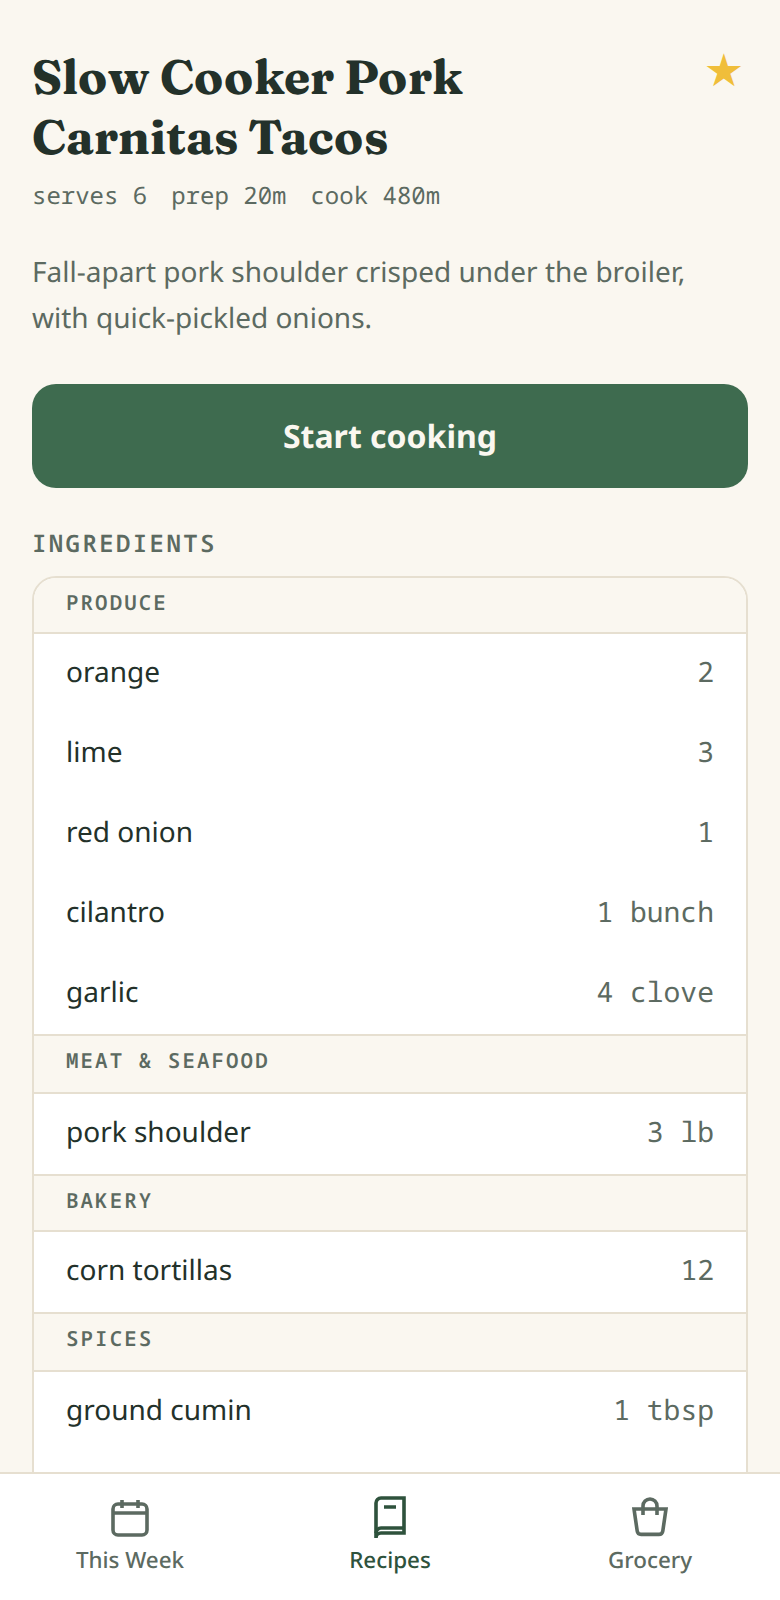
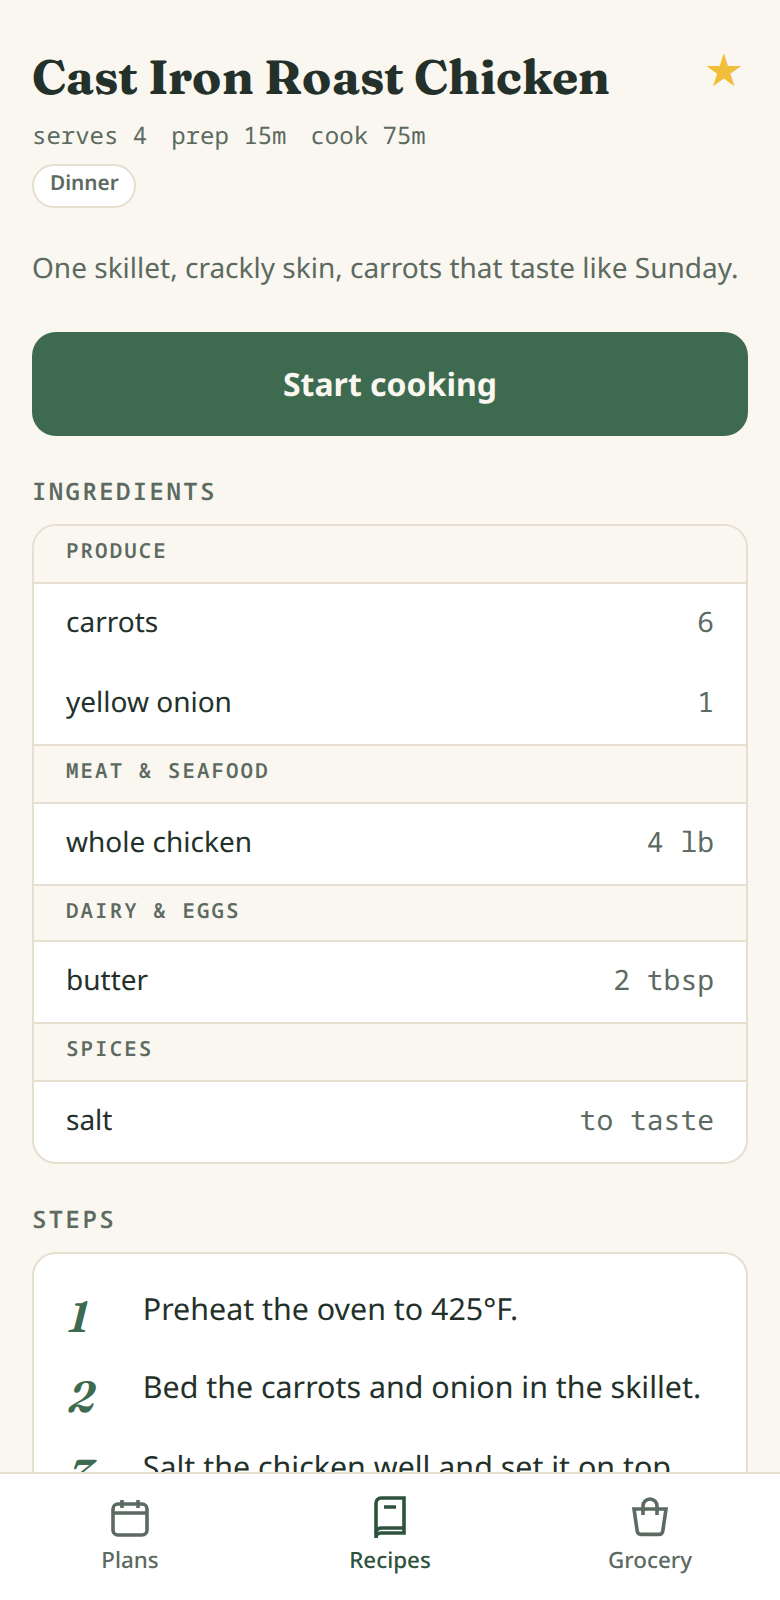
docs: refresh README screenshots for the plans UI
New captures of the active plan view (grouped by meal type, with the
sub-tabs), the grocery list, and a recipe page — the old shots showed
the retired week-based layout. week.png becomes plans.png. Also gives
the grocery header a gap so long plan display names truncate instead of
colliding with the title.

diff --git a/apps/web/src/routes/grocery.tsx b/apps/web/src/routes/grocery.tsx
@@ -71,8 +71,8 @@ function GroceryPage(): React.ReactElement {
 
   return (
     <div className="flex flex-col gap-4 p-4">
-      <header className="flex items-baseline justify-between pt-2">
-        <h1 className="font-display text-2xl font-bold">Grocery</h1>
+      <header className="flex items-baseline justify-between gap-3 pt-2">
+        <h1 className="shrink-0 font-display text-2xl font-bold">Grocery</h1>
         <p className="min-w-0 truncate font-quant text-xs text-ink-soft">
           {plan.displayName} · {done.length}/{items.length} in the cart
         </p>

diff --git a/README.md b/README.md
@@ -7,7 +7,7 @@
 
 Meal-planning apps limit you to their recipe catalog. mealforge has **no catalog**: every recipe is generated in conversation, tailored to your household, constraints, and whatever sounds good right now. The app is the structured, shoppable, cookable home for what you and the model decide together.
 
-![Meal plan view](docs/screenshots/week.png)
+![Meal plan view](docs/screenshots/plans.png)
 
 | Grocery list, grouped by store section | Recipe with cook mode |
 |:---:|:---:|